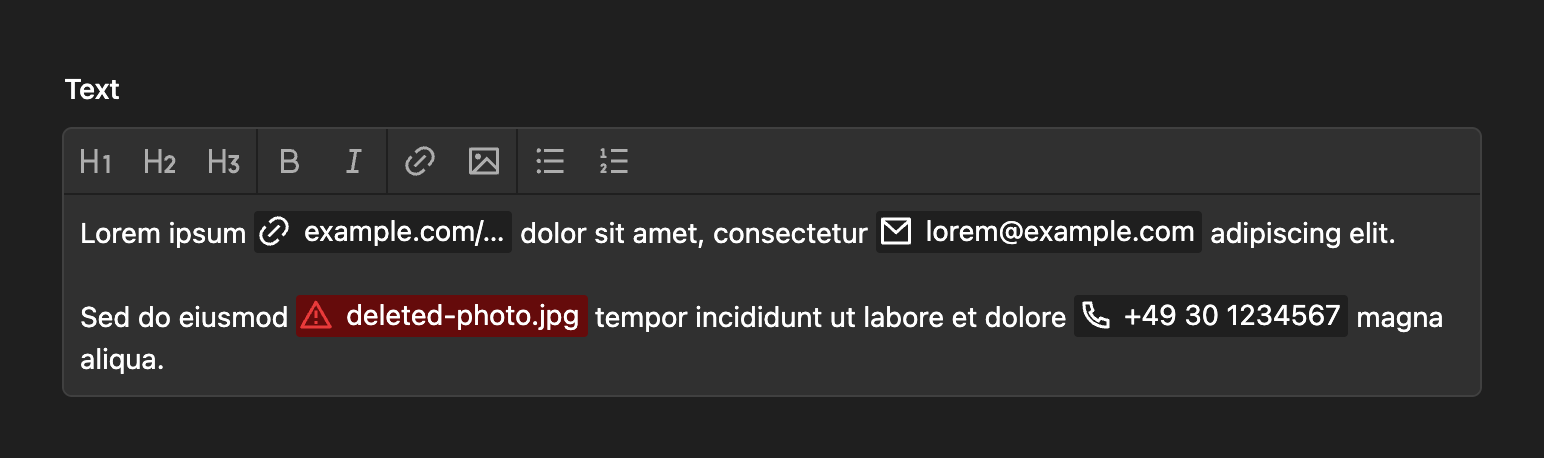
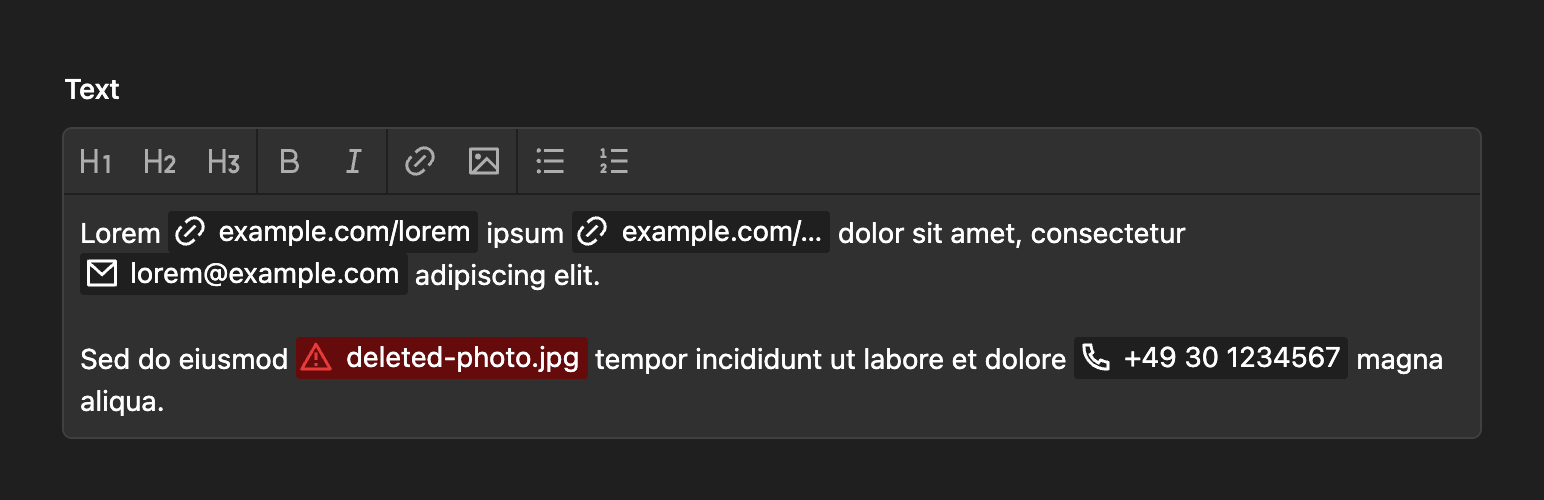
Show a short URL in the pill states screenshot

diff --git a/README.md b/README.md
@@ -60,7 +60,7 @@ With `inline: true` the field has no paragraphs and hides the block buttons. Ren
 
 Image, file, video, link, email and tel tags show as pills, like in Kirby's link field. A pill turns red when its page or file is gone. Other tags, such as `(date: year)` or tags from your own plugins, stay text.
 
-<img src=".github/panel-pill-states.png" width="772" alt="Pills for a shortened long URL, an email address, a missing image in red and a phone number.">
+<img src=".github/panel-pill-states.png" width="772" alt="Pills for a short URL, a shortened long URL, an email address, a missing image in red and a phone number.">
 
 Click a pill to edit it. Drag it to move it. Right-click it to open the link, or the page or file in the Panel. With the keyboard, select it with the arrow keys and press Enter.
 
